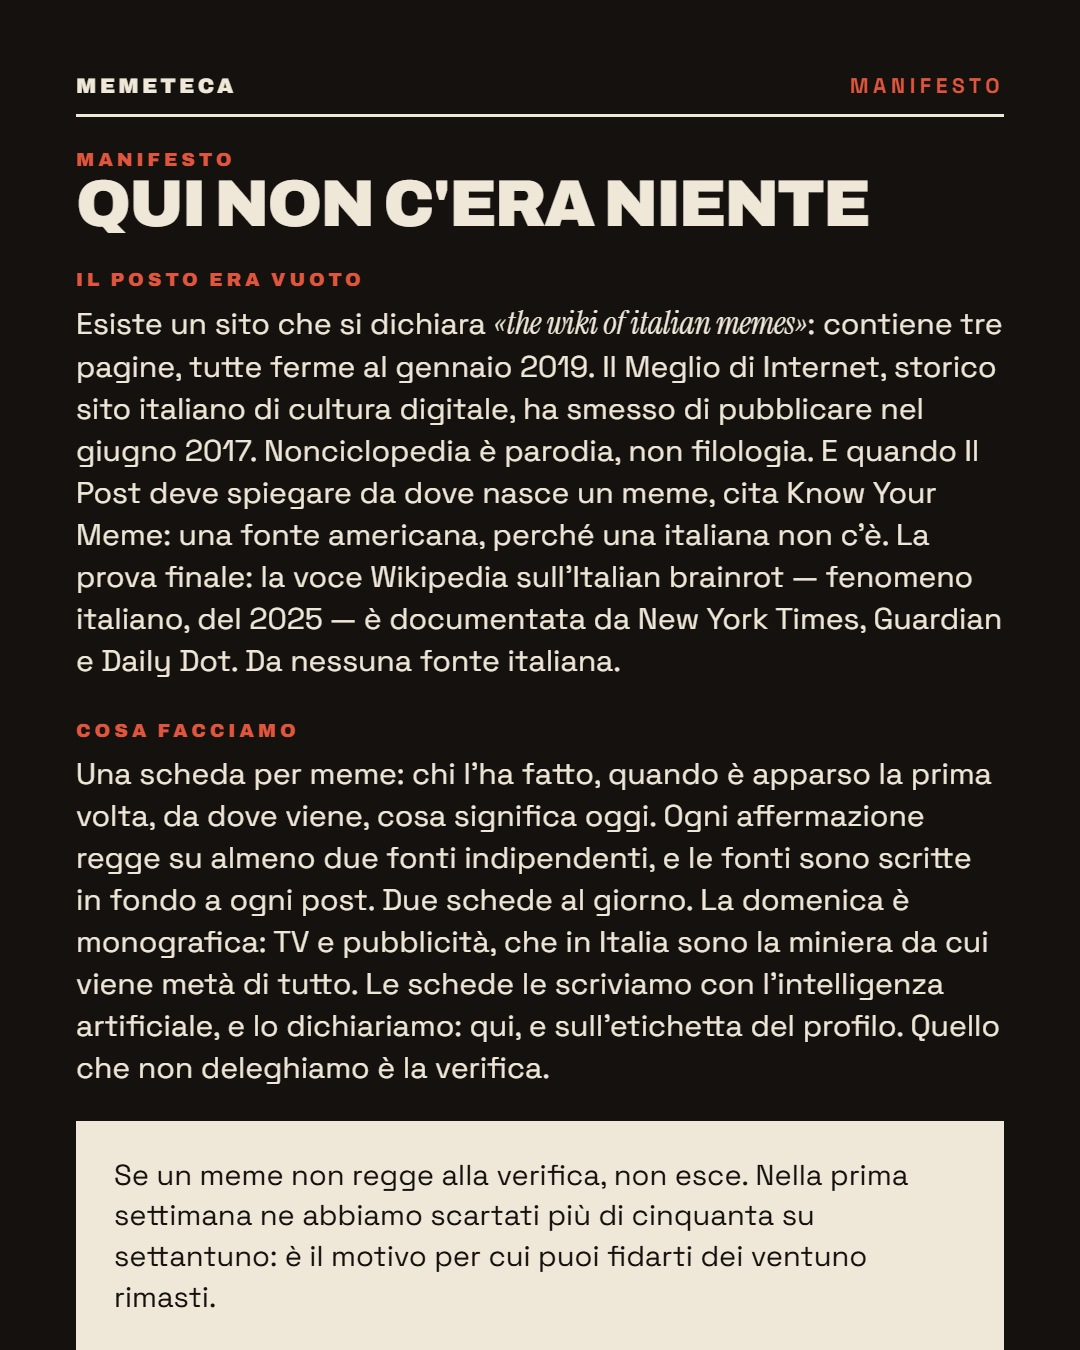
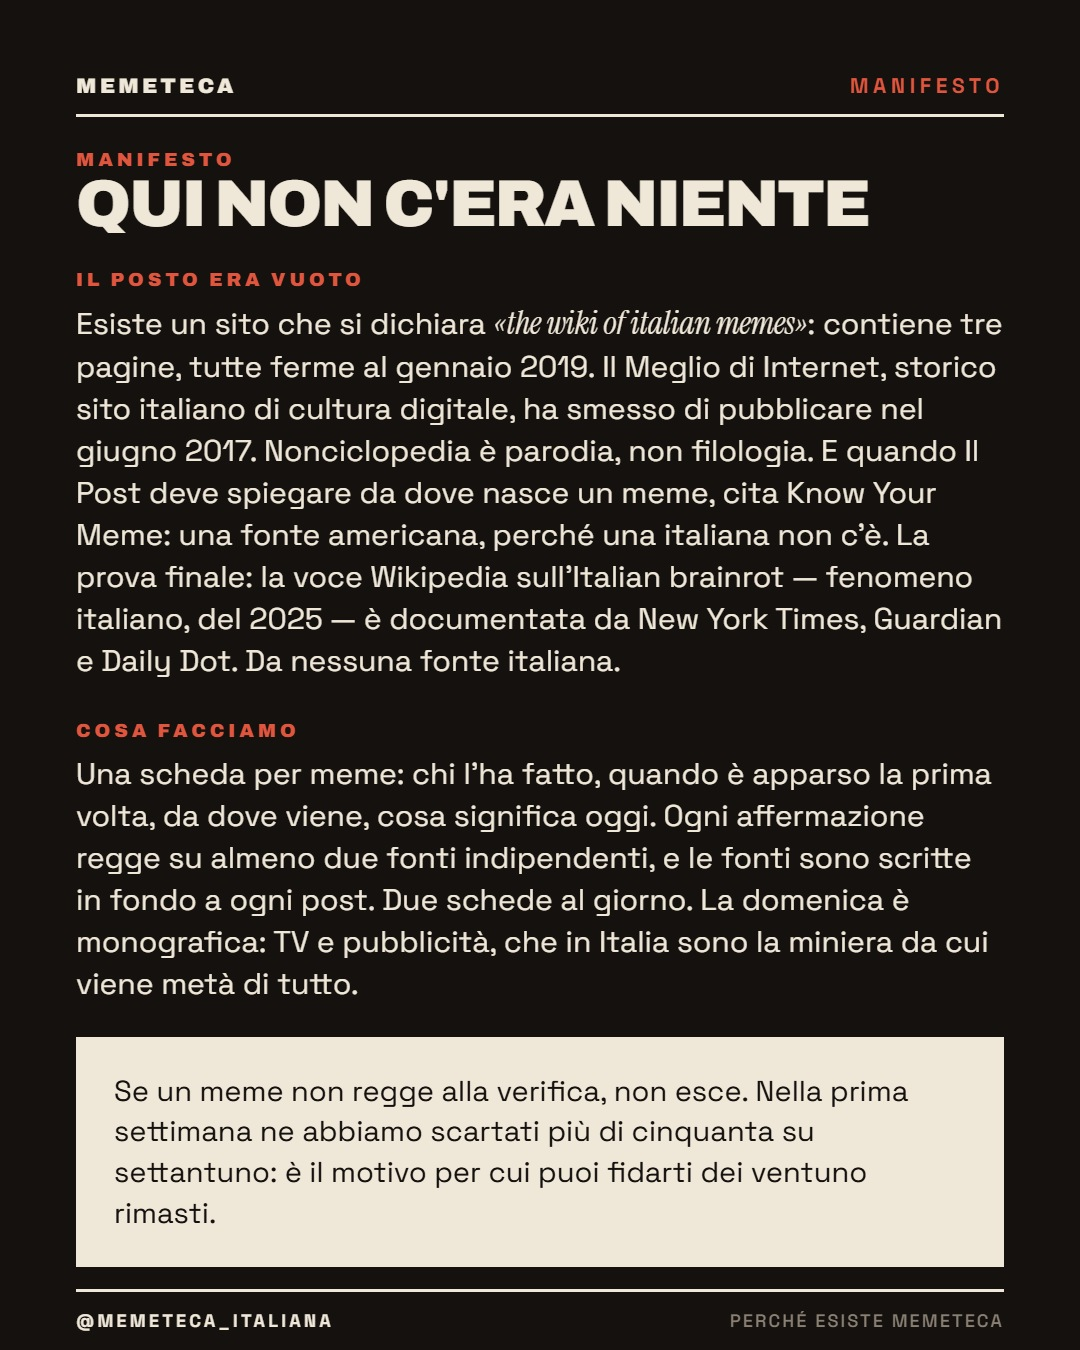
manifesto: via la dichiarazione sul metodo

Changed region(s): [[0.0611, 0.7156, 0.9472, 1.0]]

diff --git a/agente/manifesto.py b/agente/manifesto.py
@@ -63,10 +63,7 @@ MANIFESTO = {
                      "affermazione regge su almeno due fonti indipendenti, e le "
                      "fonti sono scritte in fondo a ogni post. Due schede al "
                      "giorno. La domenica è monografica: TV e pubblicità, che in "
-                     "Italia sono la miniera da cui viene metà di tutto. Le schede le "
-                     "scriviamo con l'intelligenza artificiale, e lo "
-                     "dichiariamo: qui, e sull'etichetta del profilo. "
-                     "Quello che non deleghiamo è la verifica.",
+                     "Italia sono la miniera da cui viene metà di tutto.",
         },
         {
             "titolo": "Cosa non facciamo",
